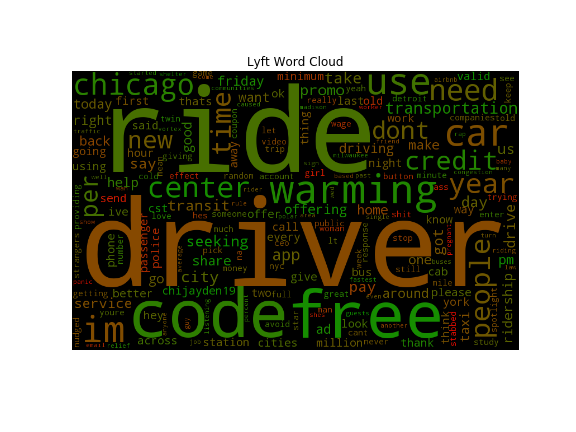
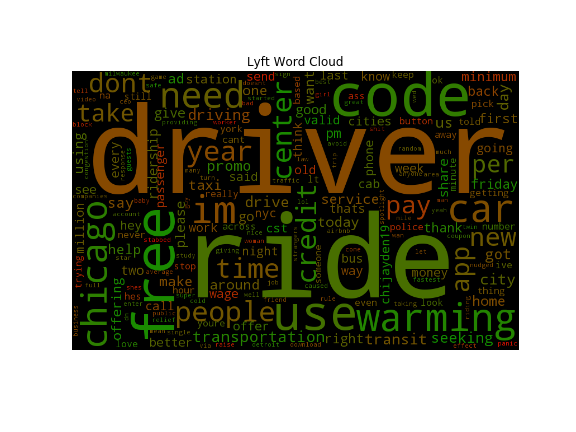
Edits

Changed region(s): [[0.125, 0.1505, 0.9062, 0.8125]]

diff --git a/projects/textnlp.html b/projects/textnlp.html
@@ -427,6 +427,16 @@ plt.imshow(wordcloud)
 plt.axis("off")
 plt.title("Lyft Word Cloud")
 </p></blockquote></pre>
+</style>
+<div class="row">
+<div class="column">
+      <img src="/images/lyft_wordcloud.png" alt="lyft_wordcloud" class="img">
+    </div>
+<div class="column">
+      <img src="/images/uber_wordcloud.png" alt="uber_wordcloud" class="img">
+    </div>
+</div>
+The resulting word clouds for each brand reveal 
 <h3>TF IDF and LDA for Top Classification</h3>
 <br>
 
